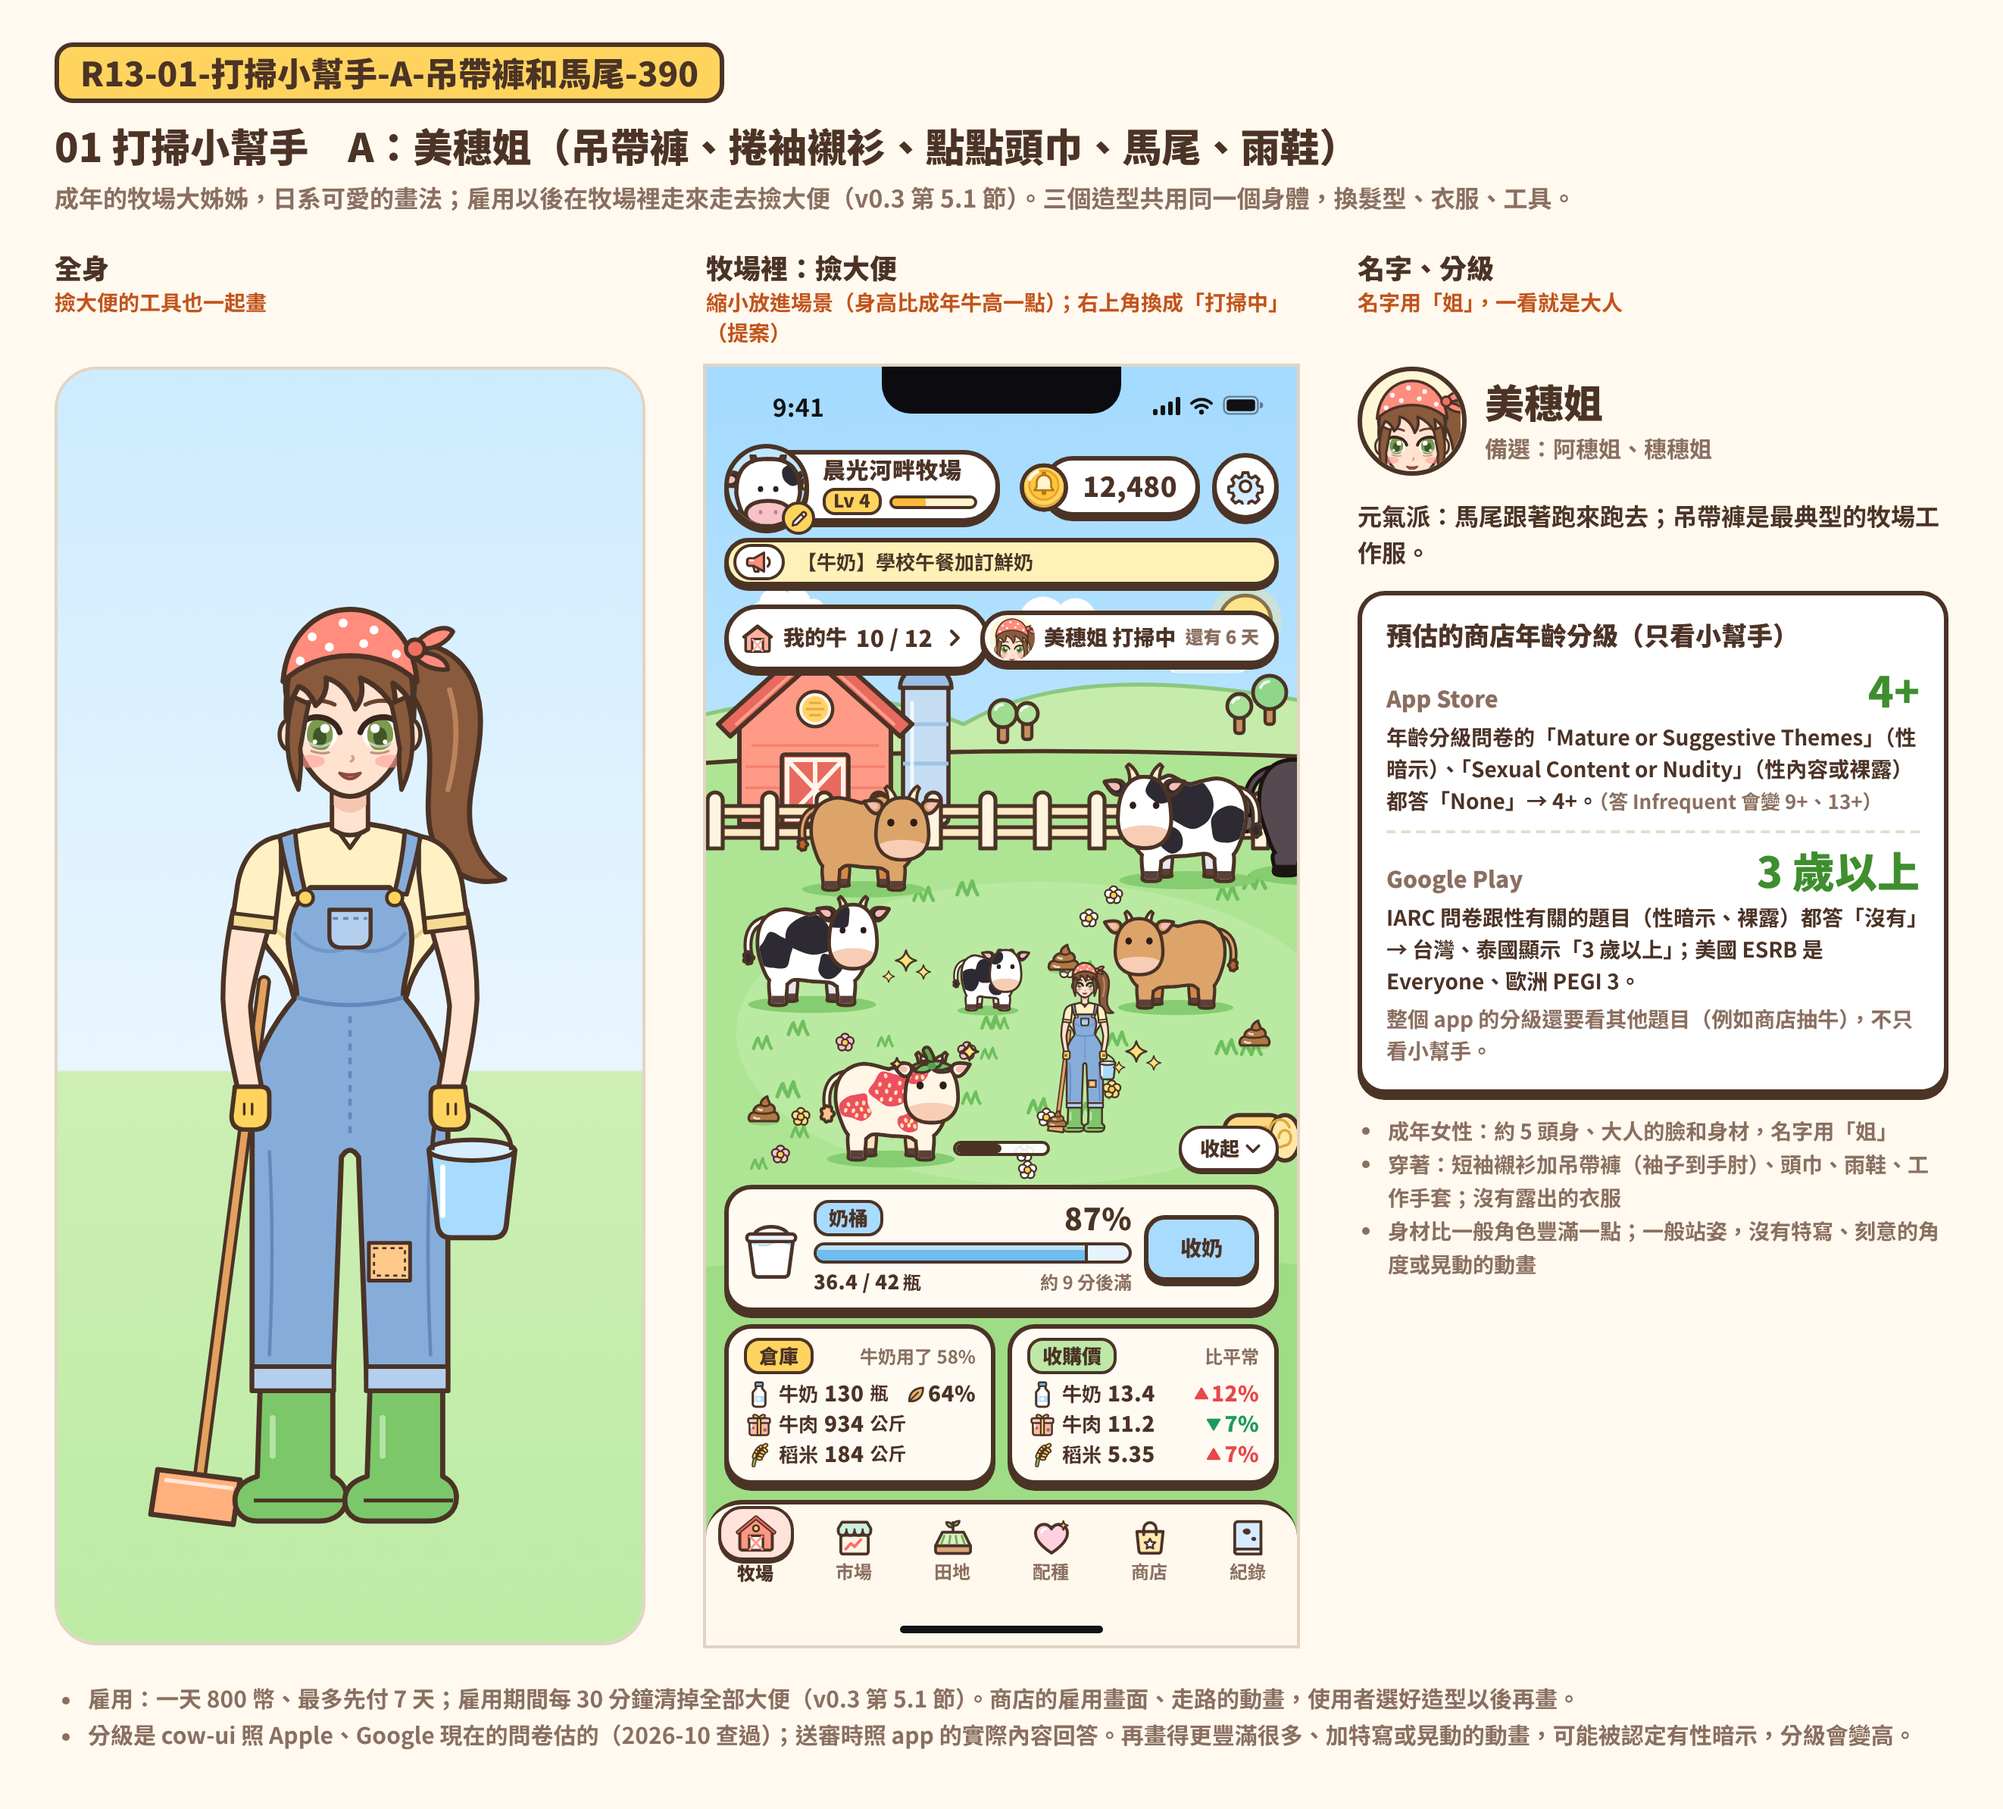
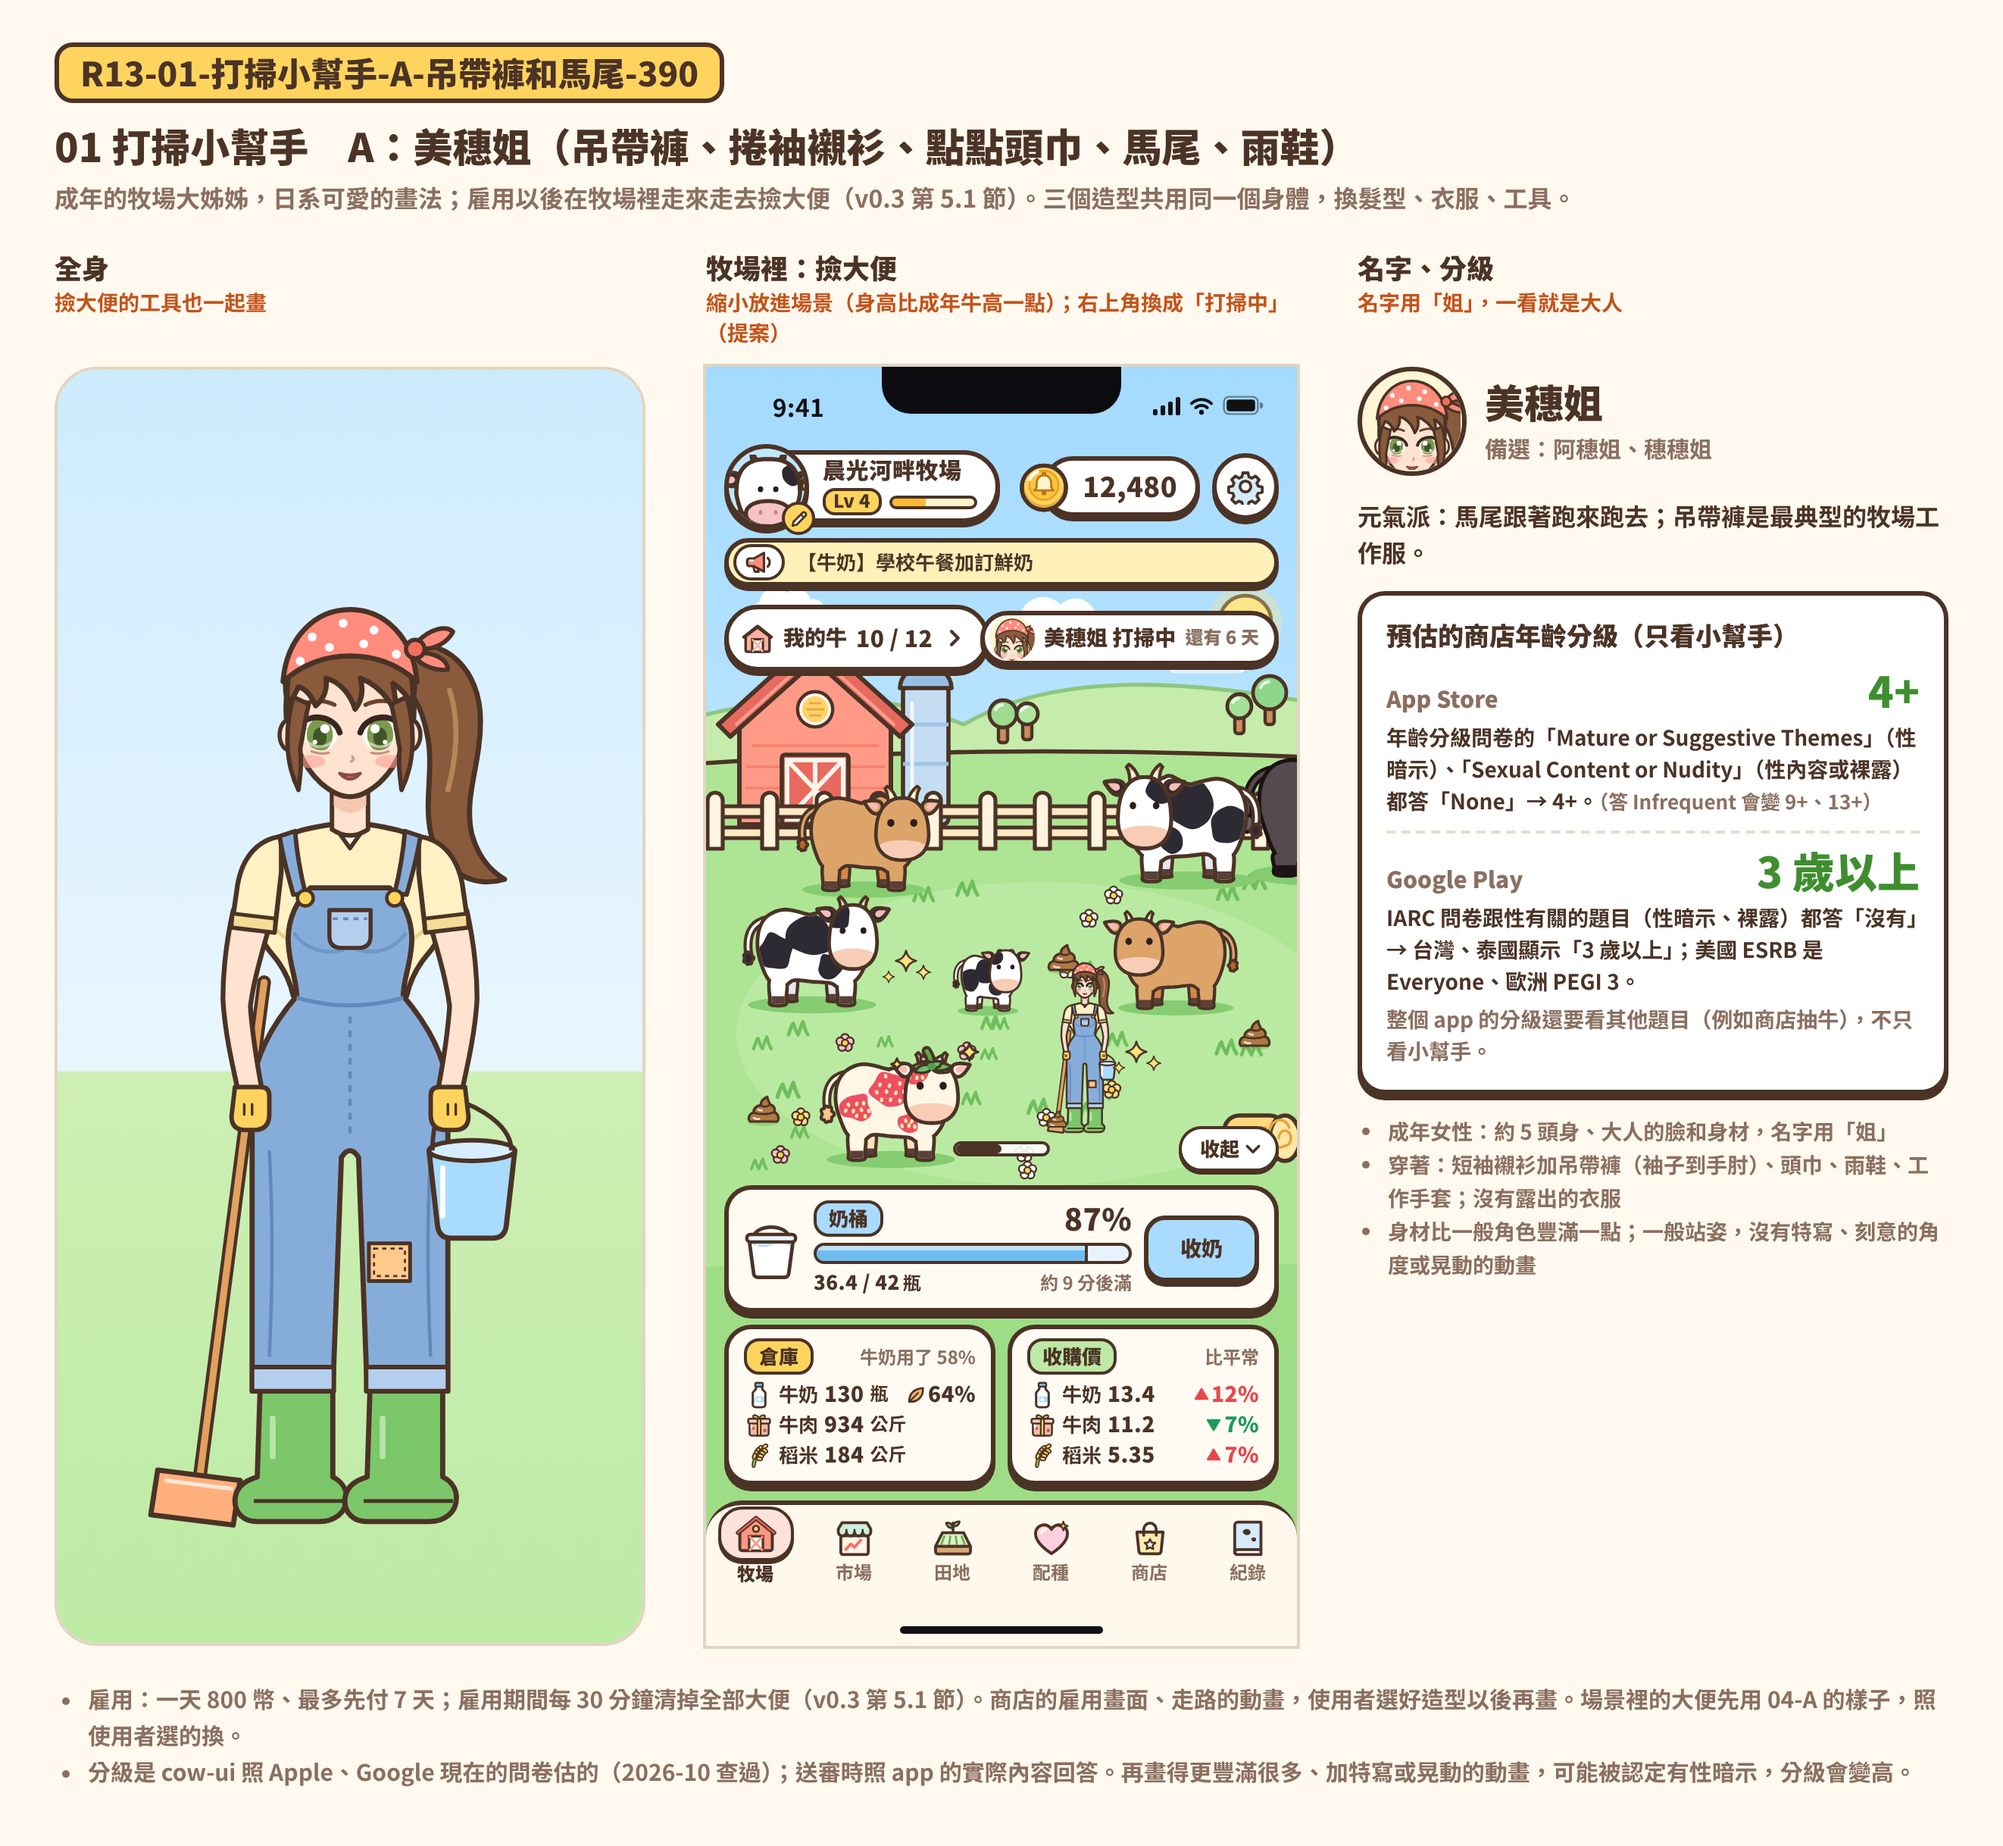
第 13 輪草稿：小幫手 C 的備選名字換成「葵花姐」；註明 01 場景的大便先用 04-A

Changed region(s): [[0.031, 0.031, 0.9924, 0.9606]]

diff --git a/design/artboards/round13/src/r13.js b/design/artboards/round13/src/r13.js
@@ -533,7 +533,7 @@ function r1305(look) {
 const LOOK1 = {
   A: { file: '吊帶褲和馬尾', alt: ['阿穗姐', '穗穗姐'], tool: [62, 534], mood: '元氣派：馬尾跟著跑來跑去；吊帶褲是最典型的牧場工作服。', wear: '短袖襯衫加吊帶褲（袖子到手肘）、頭巾、雨鞋、工作手套' },
   B: { file: '圍裙和草帽', alt: ['夏夏姐', '千千姐'], tool: [213, 520], mood: '溫柔派：草帽、圍裙、側邊辮子，像隔壁牧場的大姊姊。', wear: '長袖連身裙（長度過膝）、圍裙、草帽、短靴' },
-  C: { file: '連身工作服和帽子', alt: ['葵姐', '小葵姐'], tool: [80, 518], mood: '可靠派：連身工作服、一手叉腰、一手扶著鏟子，做事俐落。', wear: '長袖連身工作服（袖子捲到前臂）、帽子、小領巾、雨鞋' },
+  C: { file: '連身工作服和帽子', alt: ['葵姐', '葵花姐'], tool: [80, 518], mood: '可靠派：連身工作服、一手叉腰、一手扶著鏟子，做事俐落。', wear: '長袖連身工作服（袖子捲到前臂）、帽子、小領巾、雨鞋' },
 };
 const HS = 0.21; // 場景裡的大小：身高約 115（成年牛約 70–90）
 // 牧場裡：小幫手在前排撿大便；還剩 3 坨，清掉的地方冒小星星；右上角換成「打掃中」（提案）
@@ -574,7 +574,7 @@ function r1301(look) {
       { cap: '名字、分級', note: '名字用「姐」，一看就是大人', html: info },
     ],
     notes: [
-      '雇用：一天 800 幣、最多先付 7 天；雇用期間每 30 分鐘清掉全部大便（v0.3 第 5.1 節）。商店的雇用畫面、走路的動畫，使用者選好造型以後再畫。',
+      '雇用：一天 800 幣、最多先付 7 天；雇用期間每 30 分鐘清掉全部大便（v0.3 第 5.1 節）。商店的雇用畫面、走路的動畫，使用者選好造型以後再畫。場景裡的大便先用 04-A 的樣子，照使用者選的換。',
       '分級是 cow-ui 照 Apple、Google 現在的問卷估的（2026-10 查過）；送審時照 app 的實際內容回答。再畫得更豐滿很多、加特寫或晃動的動畫，可能被認定有性暗示，分級會變高。',
     ],
   });

diff --git a/design/artboards/round13/README.md b/design/artboards/round13/README.md
@@ -26,7 +26,7 @@
 |---|---|---|
 | `R13-01-打掃小幫手-A-吊帶褲和馬尾-390.png` | 01 小幫手 A「美穗姐」（備選：阿穗姐、穗穗姐） | 棕色馬尾、紅色點點頭巾、短袖襯衫加牛仔吊帶褲、綠色雨鞋、黃色手套；拿長柄畚箕和水桶。元氣派。 |
 | `R13-01-打掃小幫手-B-圍裙和草帽-390.png` | 01 小幫手 B「千夏姐」（備選：夏夏姐、千千姐） | 草帽、深棕色側邊辮子、長袖連身裙（過膝）加白色圍裙、短靴；拿竹掃把和長柄畚斗。溫柔派。 |
-| `R13-01-打掃小幫手-C-連身工作服和帽子-390.png` | 01 小幫手 C「阿葵姐」（備選：葵姐、小葵姐） | 綠色帽子、黑色短髮、橘色連身工作服（拉鍊、腰帶）、小領巾、黃色雨鞋；一手叉腰、一手扶鏟子。可靠派。 |
+| `R13-01-打掃小幫手-C-連身工作服和帽子-390.png` | 01 小幫手 C「阿葵姐」（備選：葵姐、葵花姐） | 綠色帽子、黑色短髮、橘色連身工作服（拉鍊、腰帶）、小領巾、黃色雨鞋；一手叉腰、一手扶鏟子。可靠派。 |
 | `R13-02-小牛-A-照用途的一般品種-390.png` | 02 小牛 A：照用途的一般品種 | 小乳牛黑白花、小耕牛黃褐、小肉牛炭灰（像每種用途沒有特徵的那一種）。母的頭上有粉紅蝴蝶結，公的體型大一點。 |
 | `R13-02-小牛-B-奶油色加領巾-390.png` | 02 小牛 B：全部奶油色，領巾分用途 | 每頭小牛都是奶油色，用領巾顏色分用途（乳牛藍、耕牛綠、肉牛紅）；蝴蝶結、體型跟 A 一樣。 |
 | `R13-03-雜種牛-A-灰褐素色-390.png` | 03 雜種牛 A：灰褐素色 | 全身灰褐色（24 種裡沒有灰色系的淺色牛）。圖鑑最下面另外一格「雜種牛」；長大揭曉時寫「沒吃到玉米，長成了雜種牛」。 |
@@ -48,7 +48,7 @@
 
 - 02：小牛的名字寫「小乳牛 #15」「小耕牛 #21」「小肉牛 #22」，不寫品種、不放稀有度；長大才換成品種名。
 - 04：牧場右上角放還沒清的大便數；髒到會生病（大便 ÷ 牛數大於 0.5）時變紅、寫「會生病」。
-- 01：雇了小幫手以後，右上角換成「美穗姐 打掃中　還有 6 天」。
+- 01：雇了小幫手以後，右上角換成「美穗姐 打掃中　還有 6 天」。場景裡的大便先用 04-A 的樣子，照使用者選的換。
 - 03：雜種牛的詳細頁標籤寫「雜種」、不放稀有度；寫「沒吃到玉米長成的；牛奶、牛肉、稻米 ×0.6」。
 
 ## 要 ceo 決定的
